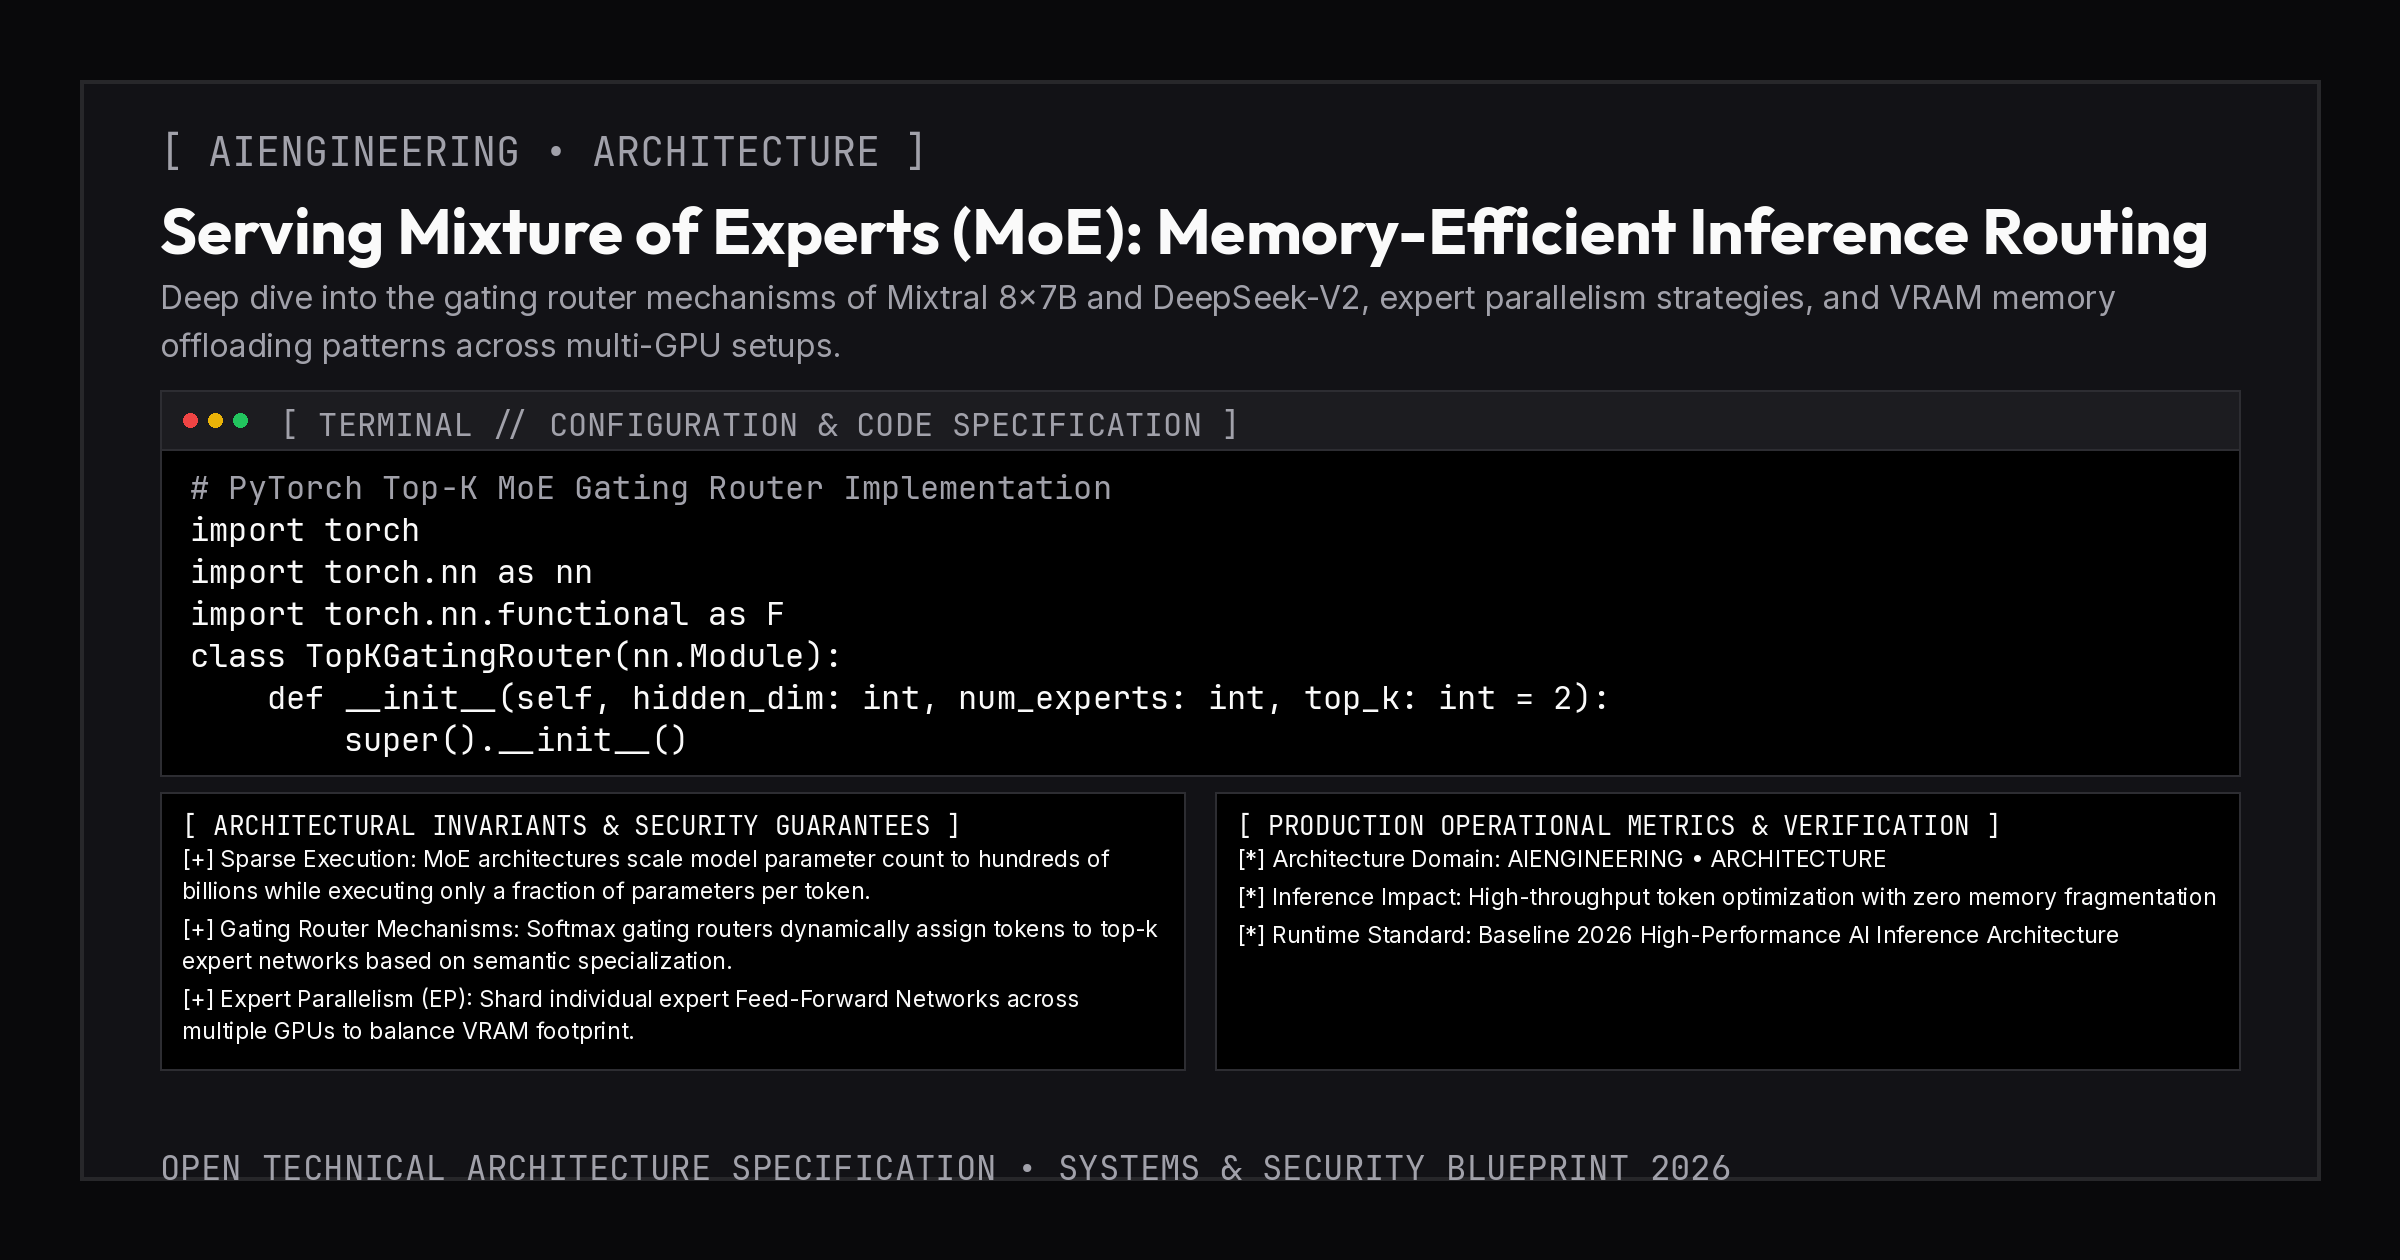
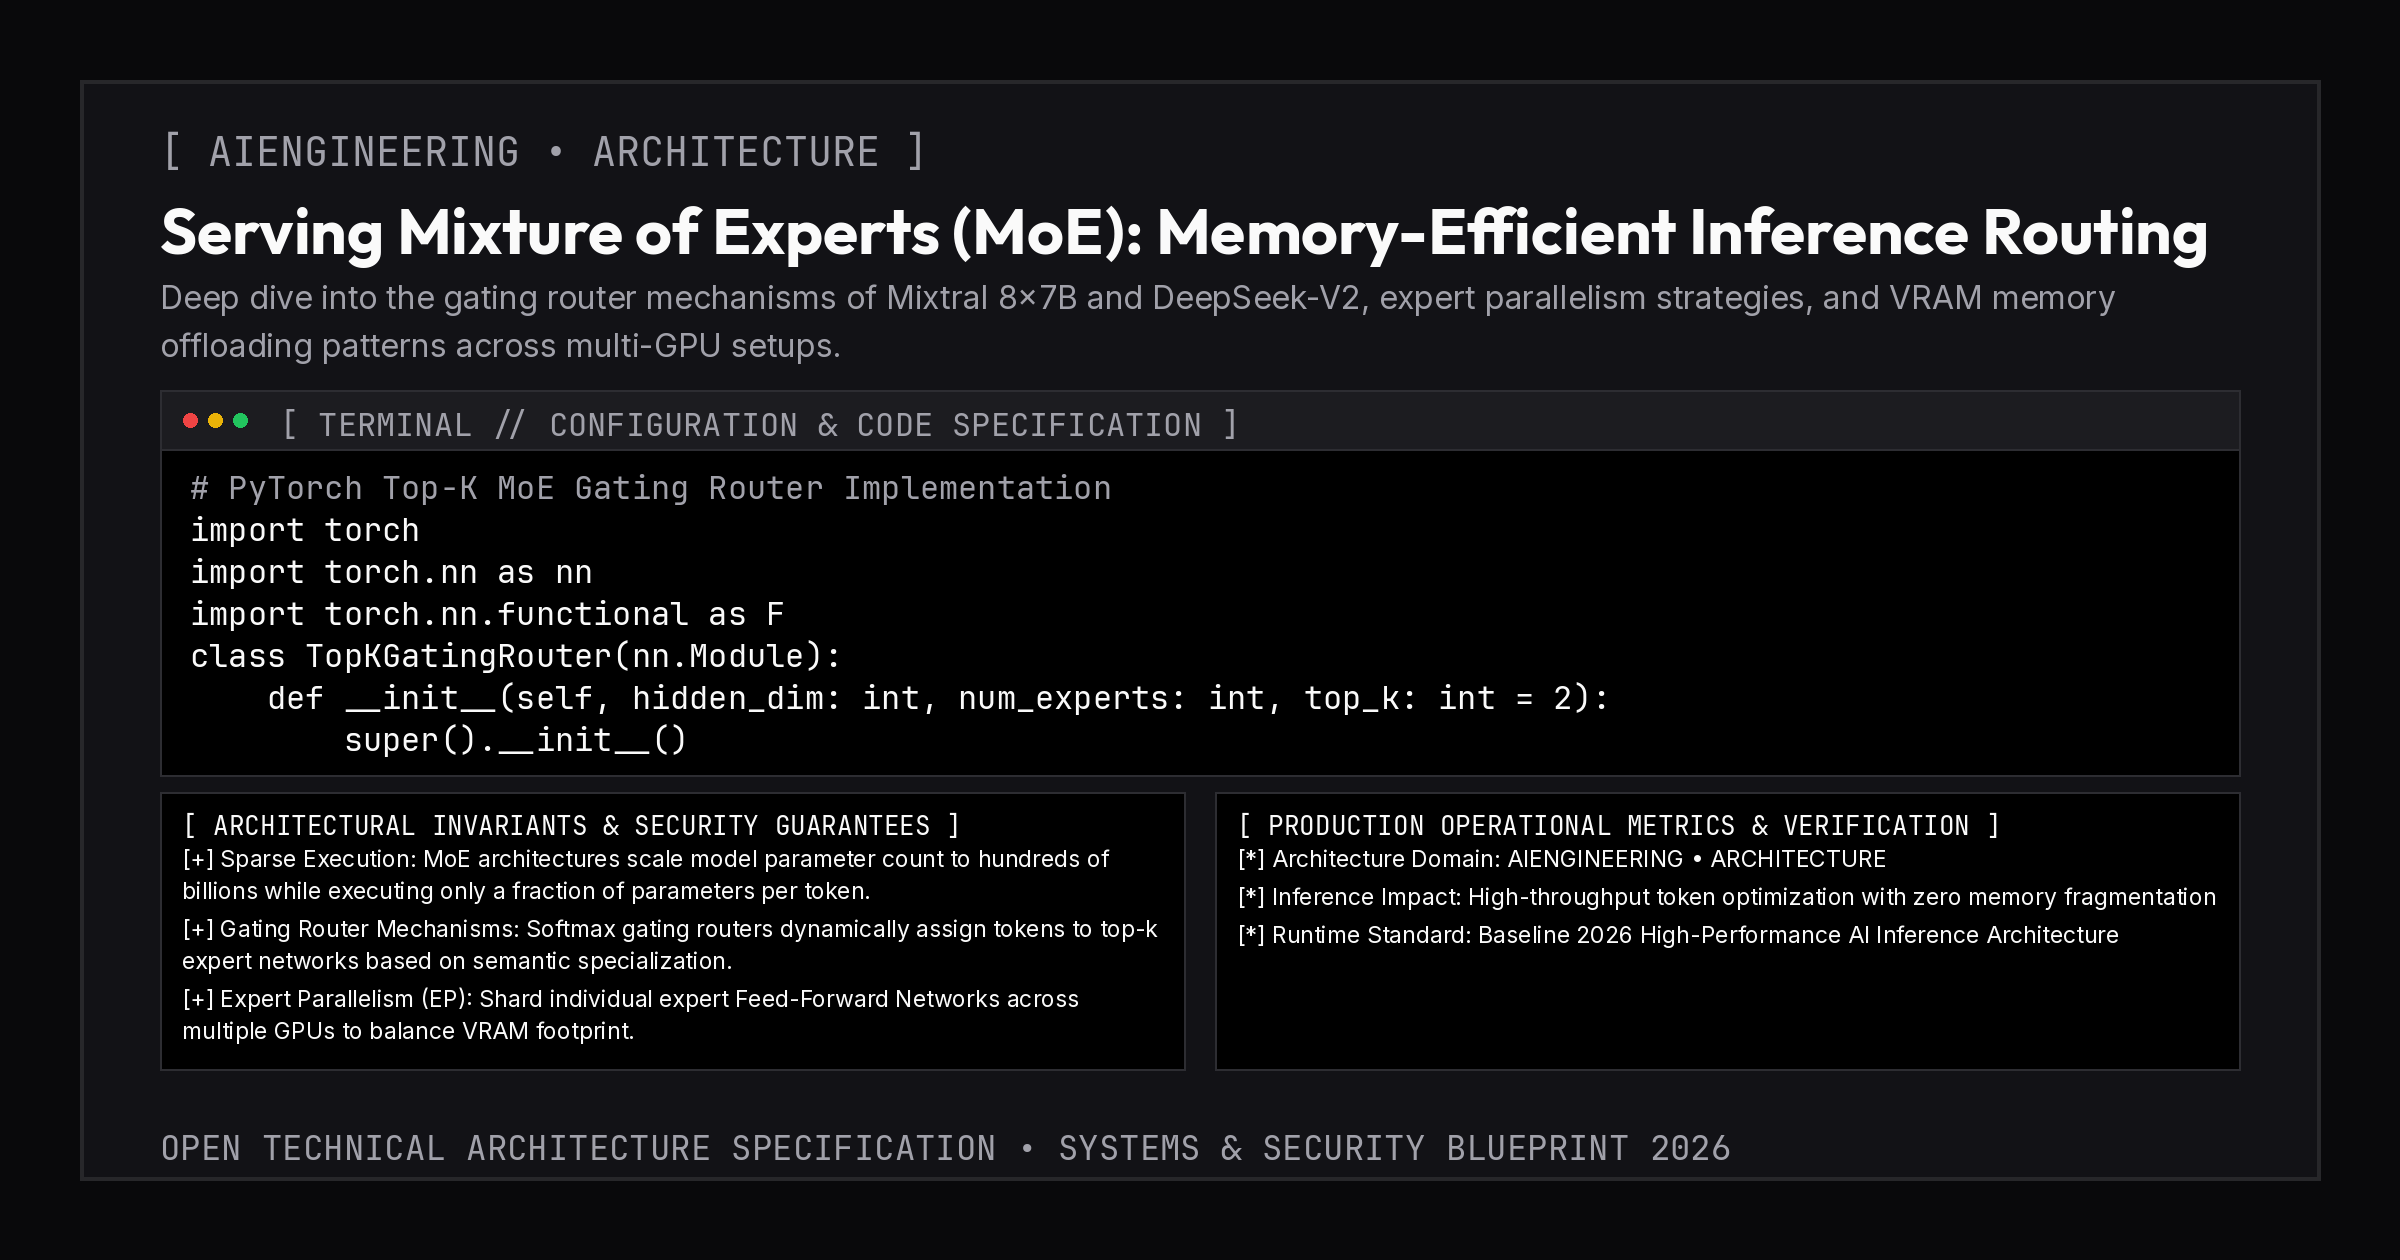
fix(social-cards): delimiter-aware code line wrapping and landscape footer border clearance

Changed region(s): [[0.0625, 0.8976, 0.7188, 0.9595]]

diff --git a/scripts/generate_social_cards.py b/scripts/generate_social_cards.py
@@ -1,6 +1,7 @@
 #!/usr/bin/env python3
 import os
 import sys
+import re
 import json
 import argparse
 from pathlib import Path
@@ -61,21 +62,60 @@ def wrap_text(text, font, max_width, draw):
 
 def wrap_code_lines(raw_lines, font, max_w, max_total_lines, draw):
     final_lines = []
+    
+    def get_width(text):
+        bbox = draw.textbbox((0, 0), text, font=font)
+        return bbox[2] - bbox[0]
+
     for line in raw_lines:
-        bbox = draw.textbbox((0, 0), line, font=font)
-        if bbox[2] - bbox[0] <= max_w:
+        if get_width(line) <= max_w:
             final_lines.append(line)
         else:
-            words = line.split(' ')
+            raw_tokens = line.split(' ')
+            tokens = []
+            for t in raw_tokens:
+                if not t:
+                    tokens.append('')
+                    continue
+                if get_width(t) <= max_w:
+                    tokens.append(t)
+                else:
+                    sub_parts = [p for p in re.split(r'([:;,/])', t) if p]
+                    cur_part = ''
+                    for p in sub_parts:
+                        if get_width(cur_part + p) <= max_w:
+                            cur_part += p
+                        else:
+                            if cur_part:
+                                tokens.append(cur_part)
+                            if get_width(p) > max_w:
+                                for ch in p:
+                                    if get_width(cur_part + ch) <= max_w:
+                                        cur_part += ch
+                                    else:
+                                        if cur_part:
+                                            tokens.append(cur_part)
+                                        cur_part = ch
+                            else:
+                                cur_part = p
+                    if cur_part:
+                        tokens.append(cur_part)
+            
             curr = ''
-            for w in words:
-                test = (curr + ' ' + w).strip() if curr else w
-                if draw.textbbox((0, 0), test, font=font)[2] - draw.textbbox((0, 0), test, font=font)[0] <= max_w:
+            for token in tokens:
+                sep = ' ' if curr and not curr.endswith(' ') and token else ''
+                test = curr + sep + token if curr else token
+                if get_width(test) <= max_w:
                     curr = test
                 else:
                     if curr:
                         final_lines.append(curr)
-                    curr = '    ' + w
+                    indent = '    ' if not token.startswith(' ') else ''
+                    test_indented = indent + token
+                    if get_width(test_indented) <= max_w:
+                        curr = test_indented
+                    else:
+                        curr = token
             if curr:
                 final_lines.append(curr)
         if len(final_lines) >= max_total_lines:
@@ -363,8 +403,8 @@ def generate_social_card(article_data, output_path: Path, theme="dark", mode="la
             my += 6
 
         # 6. Collision-Free Footer (Only rendered if there is ample vertical breathing room)
-        footer_y = height - margin - 35
-        if curr_y + bot_h + 30 <= footer_y:
+        footer_y = height - margin - 55
+        if curr_y + bot_h + 24 <= footer_y:
             draw.text((margin + 80, footer_y), "OPEN TECHNICAL ARCHITECTURE SPECIFICATION • SYSTEMS & SECURITY BLUEPRINT 2026", fill=text_muted, font=font_meta)
 
 
